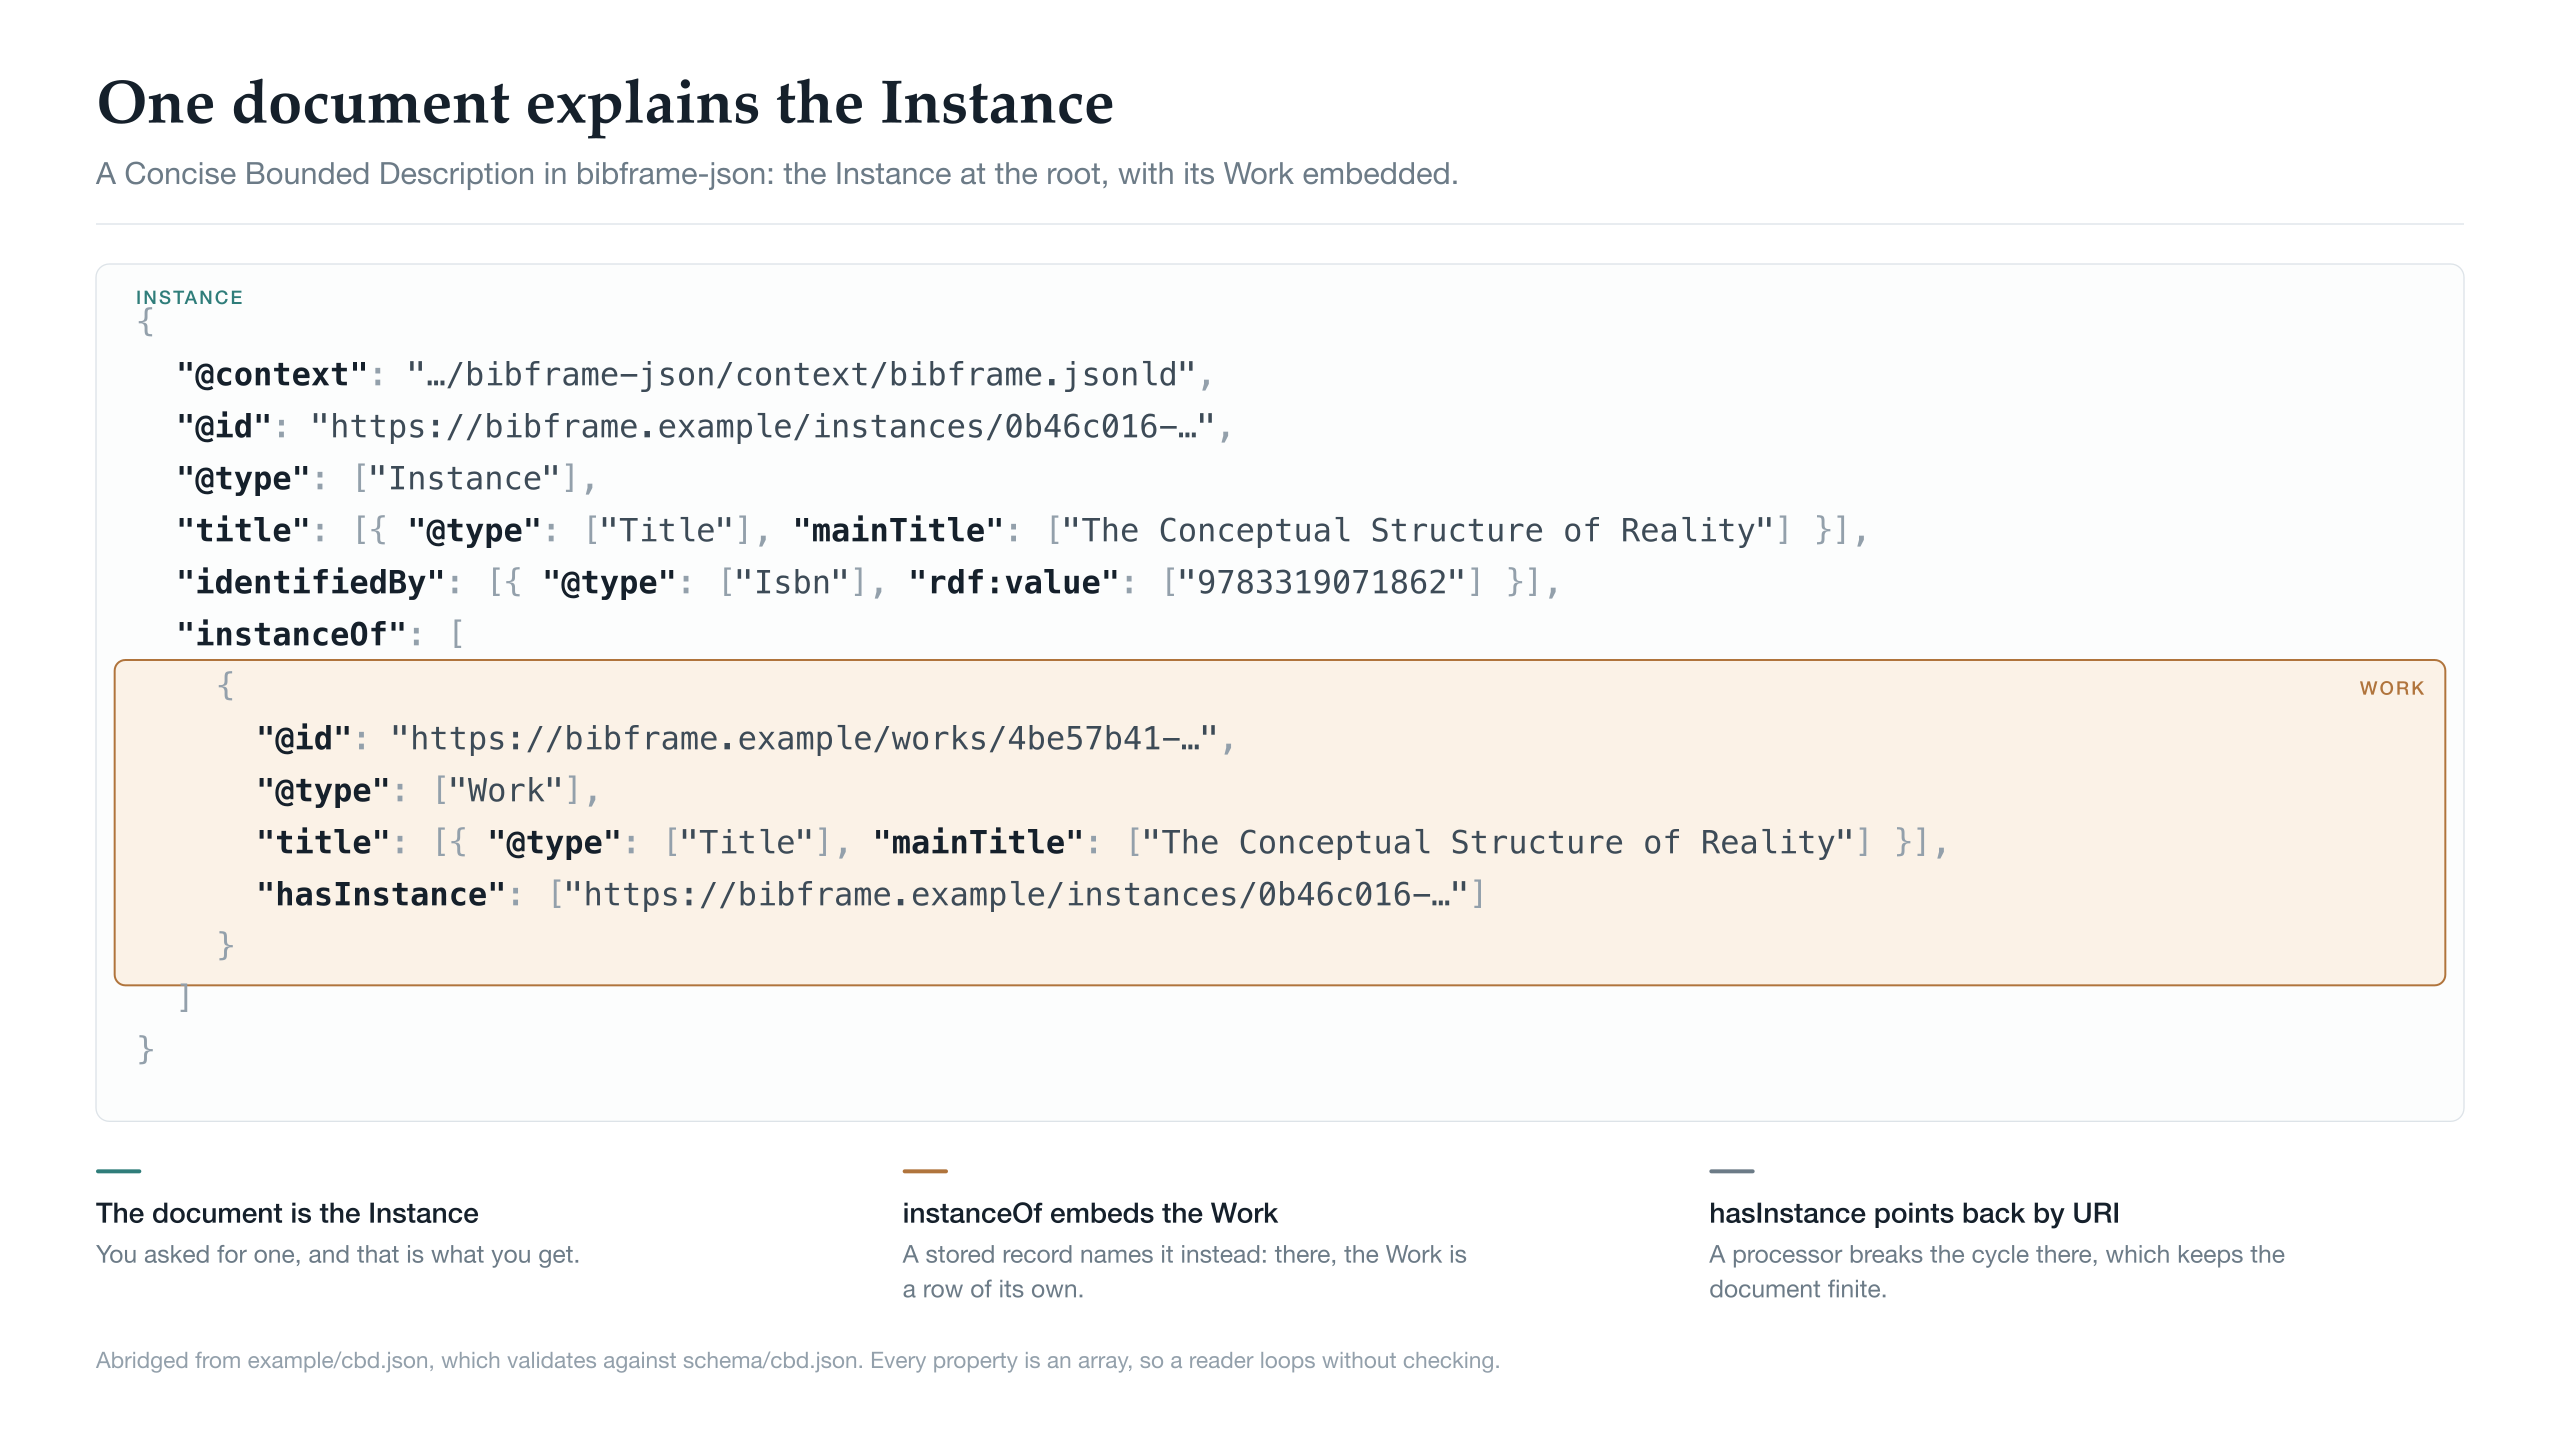
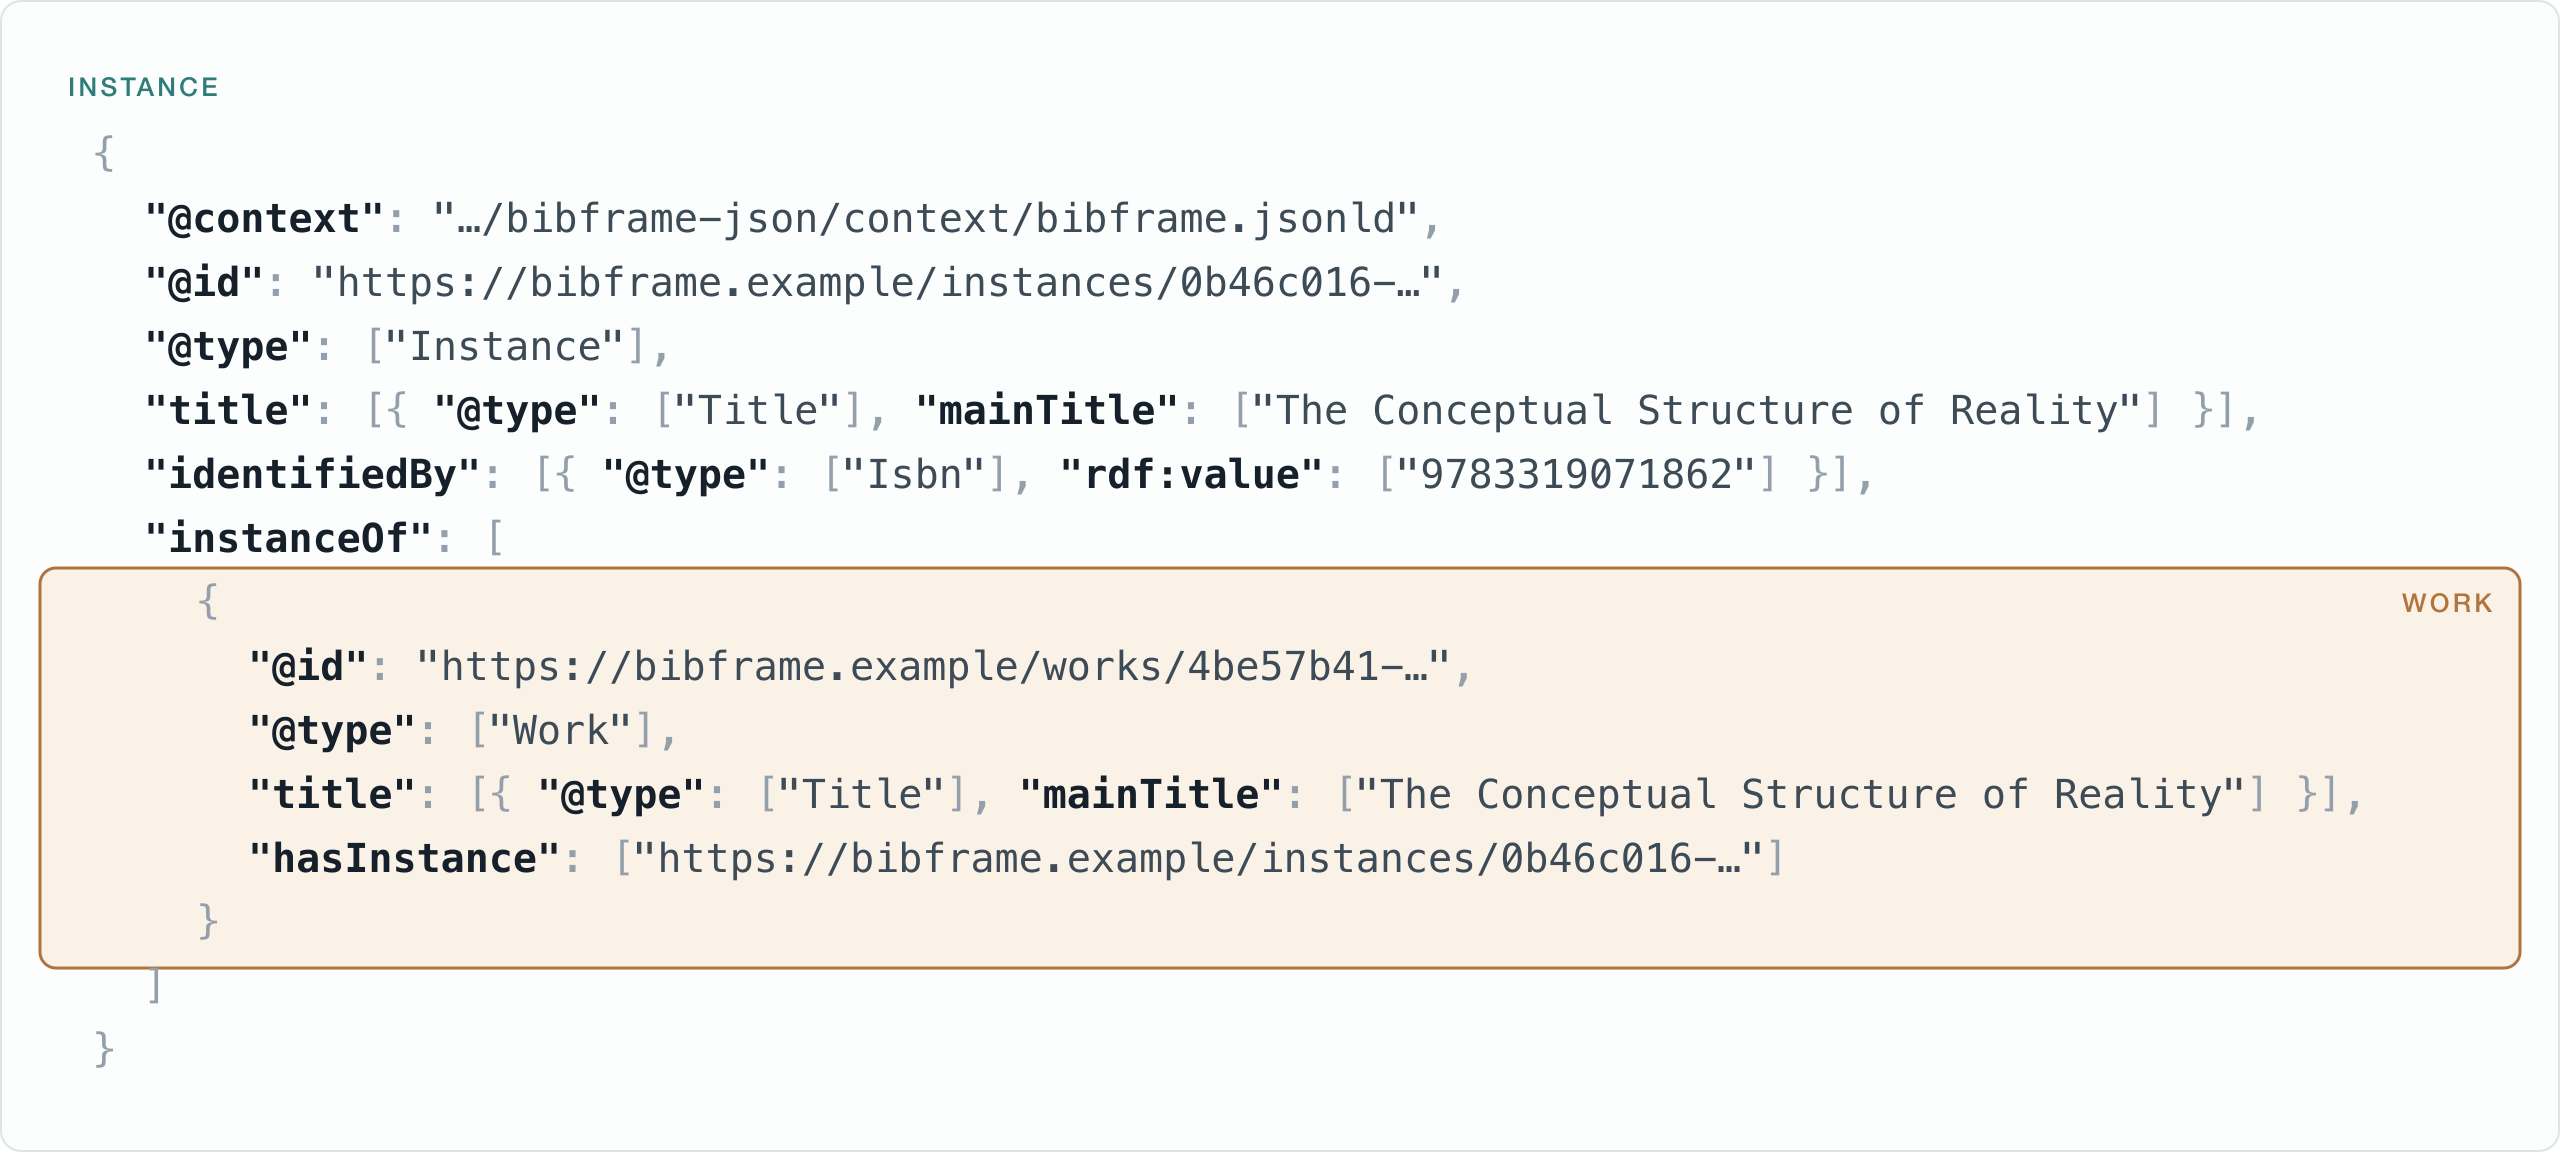
Cut the slide down to the JSON
Ed wants the record to drop into a slide he already has, with two thirds of
the horizontal space for it. So the heading, the subtitle, the rule, the
three notes and the footer are gone, and what is left is 1280 wide and as
tall as the record needs: 1280x576 at 20px mono.

The amber band stays. It is not chrome -- it is the embedded Work inside the
Instance that is the document, which is the one thing the picture is for.

diff --git a/slides/make-cbd-json-slide.py b/slides/make-cbd-json-slide.py
@@ -1,15 +1,17 @@
 #!/usr/bin/env python3
-"""One slide: what a Concise Bounded Description looks like as JSON.
+"""A Concise Bounded Description as JSON, to drop into a slide.
 
-Same stage as bluecore-models/docs/slides: 1920x1080, Iowan Old Style for the
-heading, Inter for everything that labels, SF Mono for anything a machine
-wrote. It borrows that deck's palette on purpose, so Work stays amber and
-Instance stays teal from one talk to the next -- which happens to be the exact
-distinction this slide is about.
+Just the record: no heading, no notes, no rule. 1280 wide, two thirds of a
+1920 slide, and as tall as the record needs.
 
-The record is example/cbd.json, abridged. Every key and value below is in that
-file; the UUIDs are cut short with an ellipsis, which is the only liberty
-taken, and the counts in the note are real.
+It borrows bluecore-models/docs/slides' palette on purpose, so Work stays
+amber and Instance stays teal between talks. That is the distinction a CBD
+turns on, so the amber band -- the embedded Work, inside the Instance that is
+the document -- does some of the work before anyone reads the JSON.
+
+Every key and value is read from example/cbd.json at build time rather than
+typed in here, so the image cannot drift from the record. It is abridged and
+the UUIDs are cut short with an ellipsis; that is the only liberty.
 
     python3 slides/make-cbd-json-slide.py
     rsvg-convert -w 2560 slides/cbd-json.svg -o slides/cbd-json.png
@@ -17,7 +19,6 @@ taken, and the counts in the note are real.
 
 import json
 import pathlib
-from textwrap import wrap
 
 HERE = pathlib.Path(__file__).resolve().parent
 RECORD = HERE.parent / "example" / "cbd.json"
@@ -29,11 +30,10 @@ WORK, WORK_BG = "#b0743c", "#fbf2e7"
 INST, INST_BG = "#2f7d7a", "#e8f4f3"
 STR = "#3d4b57"
 
-W, H = 1920, 1080
-LEFT = 72
-TOP = 232          # below the house rule at y=168
-PANEL_W = W - 2 * LEFT   # the record gets the width; notes go beneath
-PAD = 30
+# Two thirds of a 1920 slide. The height follows the record.
+W = 1280
+PAD = 34
+TAG_H = 30
 # SF Mono advances at about 0.6em, which is what lets the type size be
 # computed from the longest line instead of guessed at and then nudged.
 ADVANCE = 0.6
@@ -89,7 +89,7 @@ def coloured(text: str) -> str:
     the colour of the string. That is the same rule the site uses and the same
     reason: punctuation only means something when it is outside a literal.
     """
-    out, i, in_string = [], 0, False
+    out, i = [], 0
     while i < len(text):
         ch = text[i]
         if ch == '"':
@@ -117,76 +117,37 @@ def svg() -> str:
     deepest = max(indent for _, indent, _ in lines)
     widest = max(len(text) + indent * 2 for _, indent, text in lines)
 
-    # Fit the longest line, then fill the space that leaves. A slide read from
-    # the back of a room wants the largest type that does not overflow, and
-    # nothing here should need nudging by hand after an edit to the record.
-    mono = min(24, int((PANEL_W - 2 * PAD - deepest * 26) / (widest * ADVANCE)))
+    # Fit the longest line rather than guess and nudge, so editing the record
+    # re-fits the image instead of overflowing it.
+    mono = min(22, int((W - 2 * PAD - deepest * 24) / (widest * ADVANCE)))
     line_h = round(mono * 1.62)
-    indent_w = round(mono * 1.25)
+    indent_w = round(mono * 1.3)
 
-    body_h = len(lines) * line_h
-    top = TOP + 18
+    top = PAD + TAG_H + mono
+    height = top + (len(lines) - 1) * line_h + PAD + round(mono * 0.5)
 
-    work_rows = [n for n, (kind, _, _) in enumerate(lines) if kind == "work"]
-    band_y = top + work_rows[0] * line_h - round(mono * 1.15)
-    band_h = (work_rows[-1] - work_rows[0] + 1) * line_h + 10
+    work = [n for n, (kind, _, _) in enumerate(lines) if kind == "work"]
+    band_y = top + work[0] * line_h - round(mono * 1.2)
+    band_h = (work[-1] - work[0] + 1) * line_h + 8
 
-    panel_y = top - 52
-    panel_h = body_h + 58
-
-    body = []
-    for n, (kind, indent, text) in enumerate(lines):
-        y = top + n * line_h
-        x = LEFT + PAD + indent * indent_w
-        body.append(f'<text class="j" x="{x}" y="{y}">{coloured(text)}</text>')
-
-    # the three things the slide is for, in the order the eye meets them
-    notes = [
-        (INST, "The document is the Instance",
-         "You asked for one, and that is what you get."),
-        (WORK, "instanceOf embeds the Work",
-         "A stored record names it instead: there, the Work is a row of its own."),
-        (MUTE, "hasInstance points back by URI",
-         "A processor breaks the cycle there, which keeps the document finite."),
+    body = [
+        f'<text class="j" x="{PAD + 12 + indent * indent_w}" y="{top + n * line_h}">'
+        f"{coloured(text)}</text>"
+        for n, (kind, indent, text) in enumerate(lines)
     ]
-    # Three notes in a row beneath, rather than a column beside. The record
-    # is the thing being shown, so it takes the width, and at full width the
-    # longest line fits at the largest size this caps at.
-    col_w = (PANEL_W - 2 * 40) // 3
-    ny = panel_y + panel_h + 62
-    for i, (colour, head, sub) in enumerate(notes):
-        nx = LEFT + i * (col_w + 40)
-        body.append(f'<rect x="{nx}" y="{ny - 26}" width="34" height="3" rx="1.5" fill="{colour}"/>')
-        body.append(f'<text class="nh" x="{nx}" y="{ny + 14}">{esc(head)}</text>')
-        for j, part in enumerate(wrap(sub, 52)):
-            body.append(
-                f'<text class="ns" x="{nx}" y="{ny + 44 + j * 26}">{esc(part)}</text>'
-            )
 
-    return f"""<svg xmlns="http://www.w3.org/2000/svg" viewBox="0 0 {W} {H}" width="{W}" height="{H}">
+    return f"""<svg xmlns="http://www.w3.org/2000/svg" viewBox="0 0 {W} {height}" width="{W}" height="{height}">
 <style>
-  .h1 {{ font: 600 46px "Iowan Old Style","Palatino Linotype",Palatino,Georgia,serif; fill:{INK} }}
-  .sub {{ font: 400 23px "Inter","Helvetica Neue",Helvetica,Arial,sans-serif; fill:{MUTE} }}
-  .j  {{ font: 400 {mono}px "SF Mono",SFMono-Regular,Menlo,Consolas,monospace; fill:{STR} }}
-  .nh {{ font: 600 21px "Inter","Helvetica Neue",Helvetica,Arial,sans-serif; fill:{INK} }}
-  .ns {{ font: 400 18.5px "Inter","Helvetica Neue",Helvetica,Arial,sans-serif; fill:{MUTE} }}
-  .tag {{ font: 600 14px "Inter","Helvetica Neue",Helvetica,Arial,sans-serif; letter-spacing:1.6px }}
-  .foot {{ font: 400 17px "Inter","Helvetica Neue",Helvetica,Arial,sans-serif; fill:{FAINT} }}
+  .j {{ font: 400 {mono}px "SF Mono",SFMono-Regular,Menlo,Consolas,monospace; fill:{STR} }}
+  .tag {{ font: 600 13px "Inter","Helvetica Neue",Helvetica,Arial,sans-serif; letter-spacing:1.6px }}
 </style>
-<rect width="{W}" height="{H}" fill="#ffffff"/>
-<text class="h1" x="{LEFT}" y="92">One document explains the Instance</text>
-<text class="sub" x="{LEFT}" y="138">A Concise Bounded Description in bibframe-json: the Instance at the root, with its Work embedded.</text>
-<line x1="{LEFT}" y1="168" x2="{W - LEFT}" y2="168" stroke="{RULE}" stroke-width="1"/>
-
-<rect x="{LEFT}" y="{panel_y}" width="{PANEL_W}" height="{panel_h}" rx="10"
+<rect x="0.5" y="0.5" width="{W - 1}" height="{height - 1}" rx="10"
       fill="#fcfdfd" stroke="{RULE}" stroke-width="1"/>
-<rect x="{LEFT + 14}" y="{band_y}" width="{PANEL_W - 28}" height="{band_h}" rx="8"
+<rect x="{PAD - 14}" y="{band_y}" width="{W - 2 * (PAD - 14)}" height="{band_h}" rx="8"
       fill="{WORK_BG}" stroke="{WORK}" stroke-width="1.5"/>
-<text class="tag" x="{LEFT + PAD}" y="{panel_y + 30}" fill="{INST}">INSTANCE</text>
-<text class="tag" x="{LEFT + PANEL_W - 30}" y="{band_y + 26}" fill="{WORK}" text-anchor="end">WORK</text>
+<text class="tag" x="{PAD}" y="{PAD + 14}" fill="{INST}">INSTANCE</text>
+<text class="tag" x="{W - PAD}" y="{band_y + 22}" fill="{WORK}" text-anchor="end">WORK</text>
 {chr(10).join(body)}
-
-<text class="foot" x="{LEFT}" y="{H - 54}">Abridged from example/cbd.json, which validates against schema/cbd.json. Every property is an array, so a reader loops without checking.</text>
 </svg>
 """
 

diff --git a/slides/README.md b/slides/README.md
@@ -1,22 +1,22 @@
 # Slides
 
-`cbd-json.svg` is the source and `cbd-json.png` a 2560px export, for slide
-software that will not place SVG. 16:9, 1920x1080.
+`cbd-json.svg` is a Concise Bounded Description as JSON, to drop into a slide.
+Just the record: no heading, no notes, no rule. 1280 wide, two thirds of a
+1920 slide, and as tall as the record needs. `cbd-json.png` is a 2560px export
+for software that will not place SVG.
 
 ```sh
 python3 slides/make-cbd-json-slide.py
 rsvg-convert -w 2560 slides/cbd-json.svg -o slides/cbd-json.png
 ```
 
-The look is bluecore-models' `docs/slides`, deliberately: same stage, same
-fonts, and the same palette, so a Work stays amber and an Instance stays teal
-from one talk to the next. That is the distinction this slide is about, so the
-colours are already doing the work before anybody reads the JSON.
+It borrows the palette from bluecore-models' `docs/slides`, so a Work stays
+amber and an Instance stays teal between talks. That is the distinction a CBD
+turns on, so the amber band — the embedded Work, inside the Instance that is
+the document — does some of the work before anyone reads the JSON.
 
-Every key and value comes out of `example/cbd.json`, read at build time rather
-than typed in, so the slide cannot drift from the record it claims to show.
-The record is abridged to fit and the UUIDs are cut short with an ellipsis;
-those are the only liberties.
-
-The type size is computed from the longest line rather than set by hand, so
-editing the record re-fits the slide instead of overflowing it.
+Every key and value is read from `example/cbd.json` at build time rather than
+typed in, so the image cannot drift from the record. It is abridged to fit and
+the UUIDs are cut short with an ellipsis; that is the only liberty. The type
+size is computed from the longest line, so editing the record re-fits the
+image instead of overflowing it.
